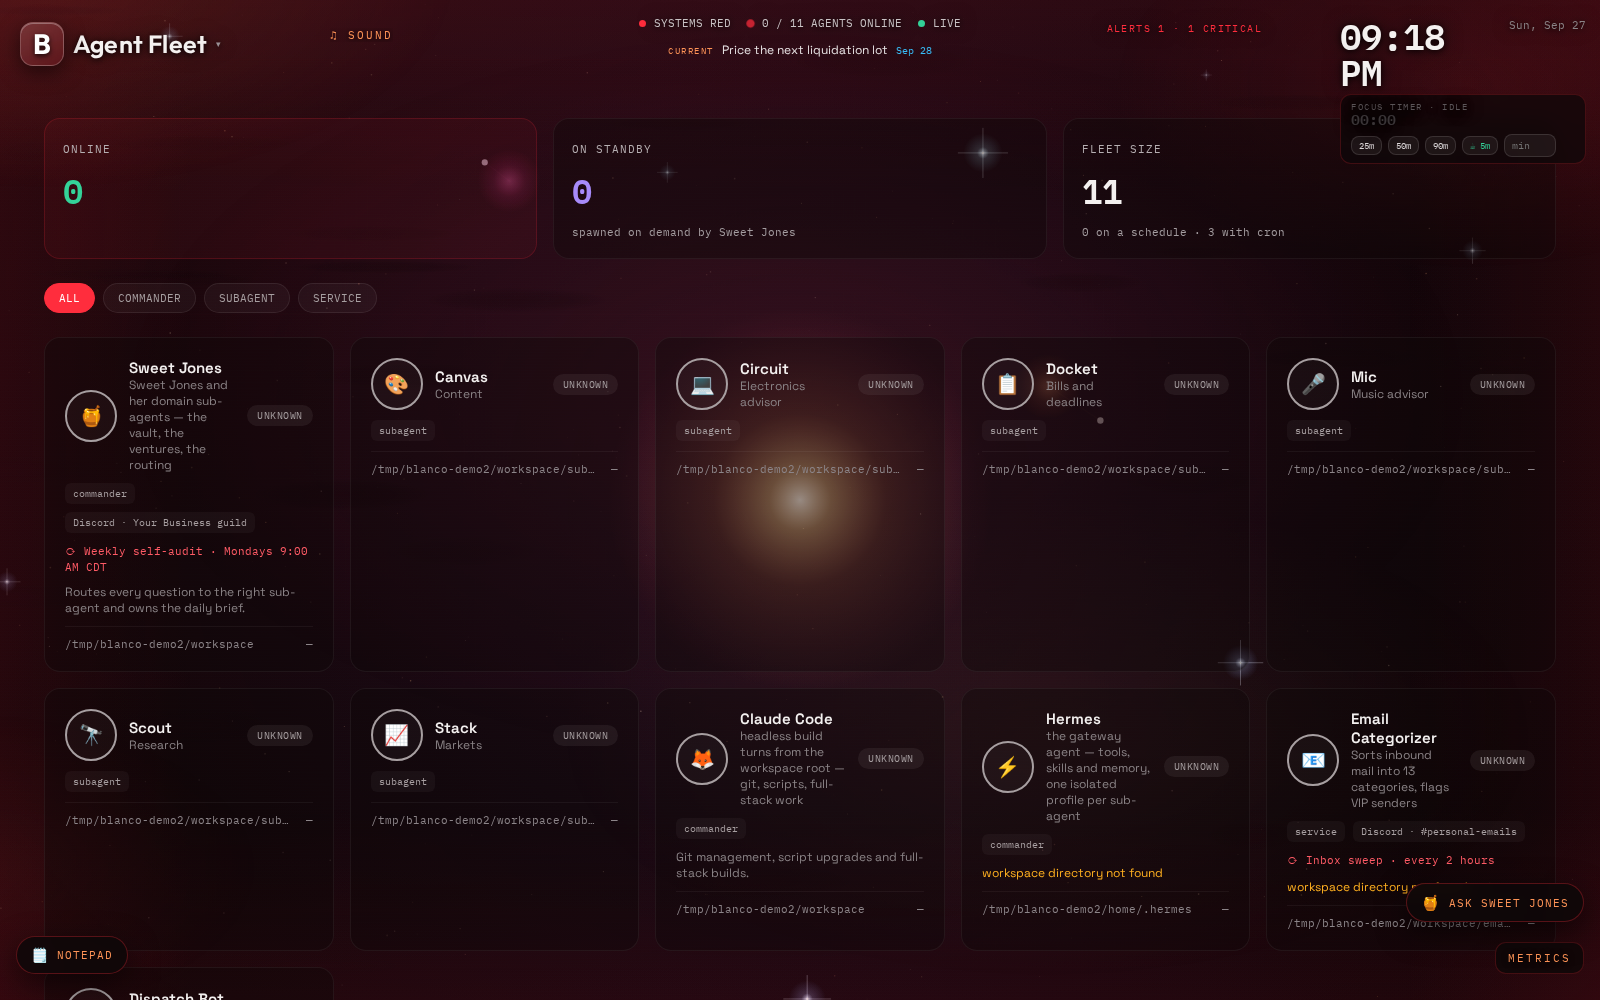
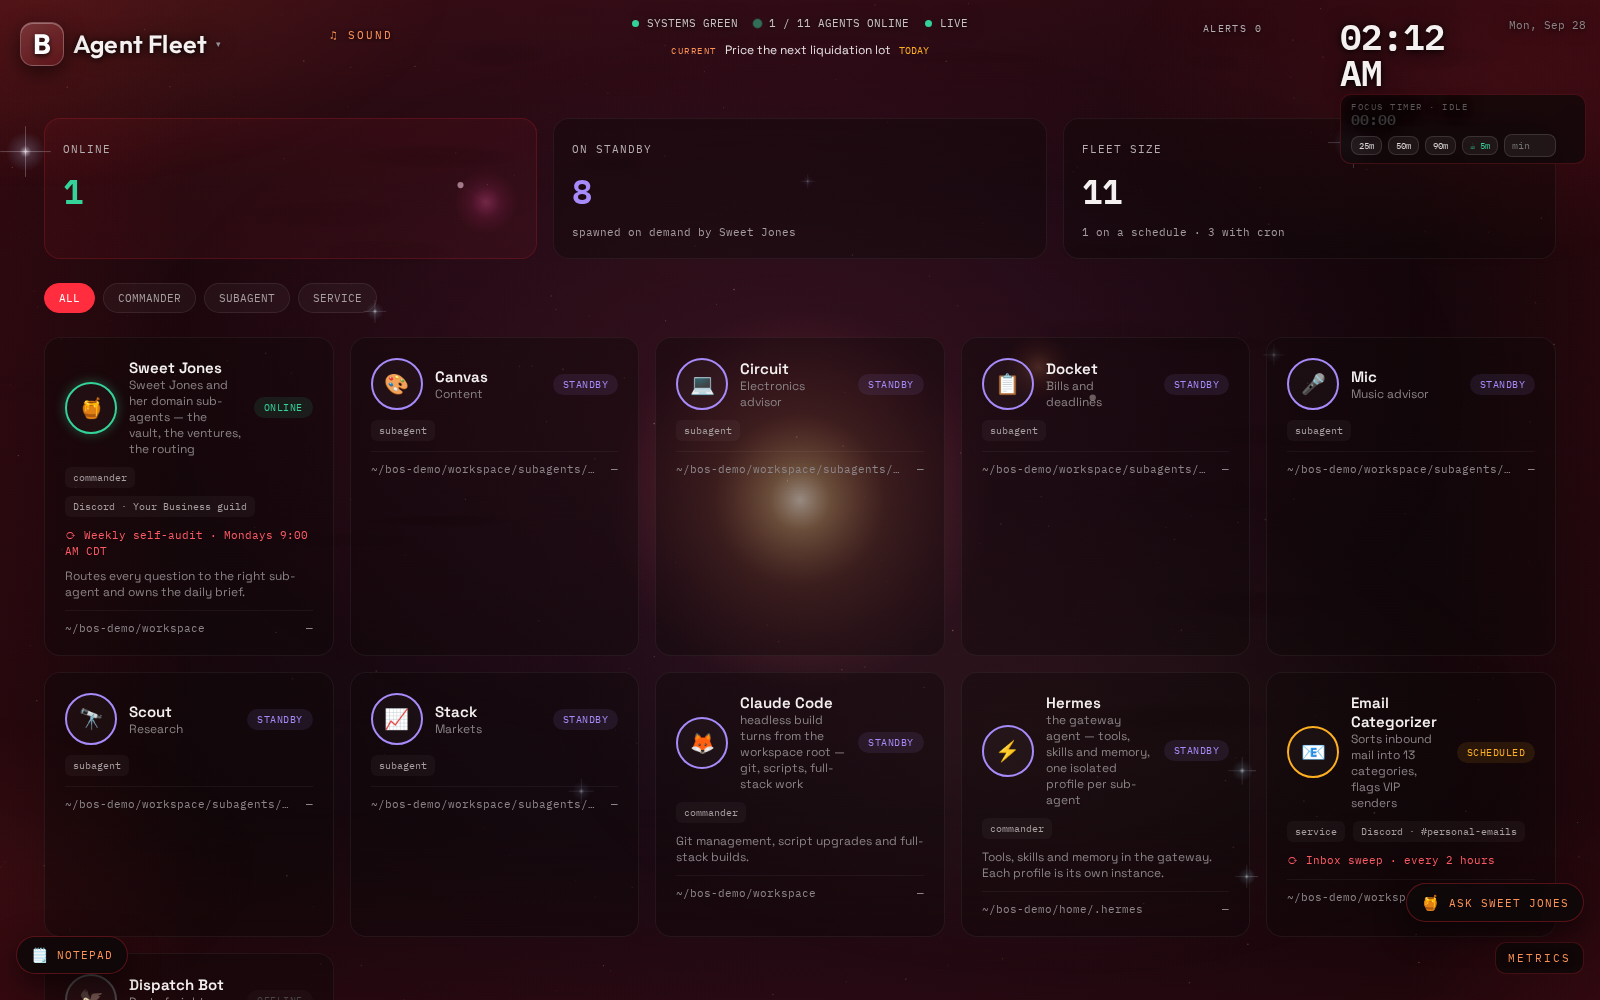
Portable paths and live demo screenshots
Resolve the Claude/Hermes binaries, vault and workspace from the running
user's home instead of a fixed placeholder, read the categorizer log from
the configured workspace, and show agent paths as ~/ in the fleet view.
The dispatch bot is an optional add-on, so its absence no longer turns
the whole OS red. Screenshots retaken against the demo with live probes.

diff --git a/web/index.html b/web/index.html
@@ -2929,7 +2929,7 @@ const App = {
           ${a.detail ? `<div style="font-size:12px;color:${
             a.detail.includes('not found') ? '#ffb020' : '#8a8386'}">${esc(a.detail)}</div>` : ''}
           <div class="agentfoot">
-            <span style="overflow:hidden;text-overflow:ellipsis;white-space:nowrap">${esc(a.workspace.replace('/home/you/',''))}</span>
+            <span style="overflow:hidden;text-overflow:ellipsis;white-space:nowrap">${esc(a.workspace.replace(/^\/home\/[^/]+\//,'~/'))}</span>
             <span style="flex-shrink:0">${esc(ago(a.last_seen))}</span>
           </div>
         </div>`).join('')}</div>

diff --git a/app/services/systems_service.py b/app/services/systems_service.py
@@ -292,12 +292,12 @@ def _probe_services() -> list[schemas.ServiceStatus]:
     # Dispatch bot — process + 5-minute watchdog
     bot_up = process_running("dispatch-bot") if probes else False
     add("dispatch-bot-bot", "Dispatch freight bot 🦅", "process", "up" if bot_up else ("down" if probes else "unknown"),
-        "dispatch_bot/start_bot.sh", "watchdog re-launches every 5 min")
+        "dispatch_bot/start_bot.sh", "watchdog re-launches every 5 min", optional=True)
 
     # Email categorizer — Hermes owns the schedule now, so ask Hermes. Its shim
     # only appends to the categorizer log on stderr, which meant a clean run
     # left the log untouched and a healthy job read as stale forever.
-    categorizer_log = Path("/home/you/workspace/email-categorizer/email-categorizer.log")
+    categorizer_log = settings.workspace_path / "email-categorizer" / "email-categorizer.log"
     job = find_hermes_job("email organizer", "email-digest")
     if job:
         status, detail = hermes_job_freshness(job)

diff --git a/app/services/commanders.py b/app/services/commanders.py
@@ -207,7 +207,7 @@ CLAUDE = Commander(
     primary_id="default",
     primary_name="Claude Code",
     primary_emoji="🦊",
-    candidates=("/home/you/.local/bin/claude", "claude"),
+    candidates=(str(Path.home() / ".local/bin/claude"), "claude"),
 )
 
 HERMES = Commander(
@@ -218,7 +218,7 @@ HERMES = Commander(
     primary_id="default",
     primary_name="Hermes",
     primary_emoji="⚡",
-    candidates=("/home/you/.local/bin/hermes", "hermes"),
+    candidates=(str(Path.home() / ".local/bin/hermes"), "hermes"),
 )
 
 ALL: tuple[Commander, ...] = (OPENCLAW, CLAUDE, HERMES)

diff --git a/app/config.py b/app/config.py
@@ -33,8 +33,8 @@ class Settings(BaseSettings):
     db_path: Path = REPO_ROOT / "data" / "blanco_os.db"
 
     # --- external surfaces we read ---------------------------------------
-    vault_path: Path = Path("/home/you/vault")
-    workspace_path: Path = Path("/home/you/workspace")
+    vault_path: Path = Path.home() / "vault"
+    workspace_path: Path = Path.home() / "workspace"
 
     # --- live probes ------------------------------------------------------
     openclaw_url: str = "http://localhost:8080"

diff --git a/app/services/email_service.py b/app/services/email_service.py
@@ -90,7 +90,7 @@ def status() -> schemas.EmailStatus:
         categories=[str(c) for c in categories],
         vip_sender_count=len(getattr(checker, "VIP_SENDERS", {})) if checker else 0,
         state_file=str(path / "state.json"),
-        log_last_written=modified_at(Path("/home/you/workspace/email-categorizer/email-categorizer.log")),
+        log_last_written=modified_at(get_settings().workspace_path / "email-categorizer" / "email-categorizer.log"),
     )
 
 

diff --git a/docs/ARCHITECTURE.md b/docs/ARCHITECTURE.md
@@ -26,7 +26,7 @@ To run it in the foreground instead (development):
 
 ```bash
 systemctl --user stop blanco-os
-cd /home/you/workspace/blanco-os && ./run.sh
+cd blanco-os && ./run.sh
 ```
 
 - **Command deck: <http://127.0.0.1:8800>**
